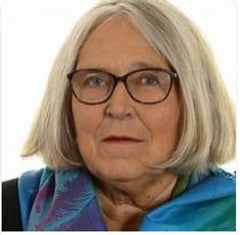
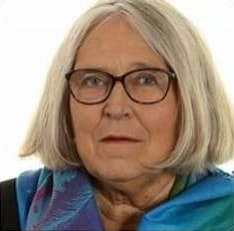
Om os: bedre portrætudsnit, rensede fotos, tynd ramme, billedudsnit i CMS
- Utsnittet tages nu lidt oppe i billedet (center 20 %) i stedet for
  midten, så toppen af hovedet ikke skæres af.
- Fire fotos renset for indbyggede kanter: Hanne (hvid kant), Peter (hvid
  stribe + prik), Mogens (hvidt bånd øverst), Mia (lyse kantlinjer).
  Originalerne ligger i git-historikken.
- Tynd ramme om portrætterne, så fotos med hvid baggrund skiller sig fra
  kortet.
- Nyt felt "Billedudsnit" (Standard / top / midt / bund) på leder og hvert
  bestyrelsesmedlem i CMS.

Claude-Session: https://claude.ai/code/session_01Au6vExRNRGK2Fp4zM3MCF7

diff --git a/src/content.config.ts b/src/content.config.ts
@@ -186,6 +186,8 @@ const omos = defineCollection({
       name: z.string(),
       role: z.string().default('Daglig leder'),
       image: z.string().optional(),
+      // Billedudsnit i den lille firkant (standard = lidt oppe, så hovedet kommer med).
+      imagePos: z.enum(['standard', 'top', 'center', 'bottom']).catch('standard'),
       phone: z.string().optional(),
       showPhone: z.boolean().default(true),
       email: z.string().optional(),
@@ -197,6 +199,8 @@ const omos = defineCollection({
       name: z.string(),
       role: z.string(),
       image: z.string().optional(),
+      // Billedudsnit i den lille firkant (standard = lidt oppe, så hovedet kommer med).
+      imagePos: z.enum(['standard', 'top', 'center', 'bottom']).catch('standard'),
       phone: z.string().optional(),
       showPhone: z.boolean().default(true),
       email: z.string().optional(),
